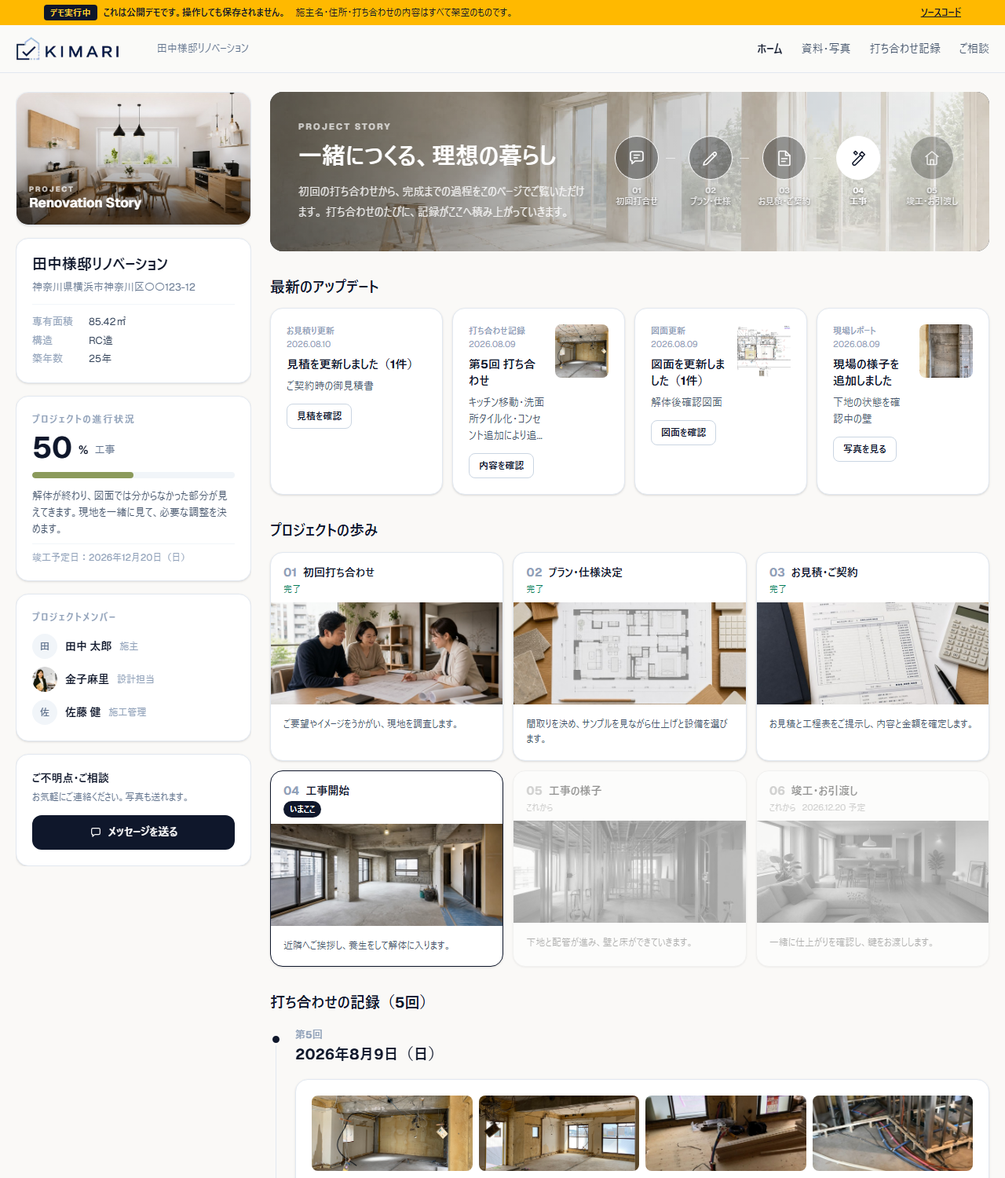
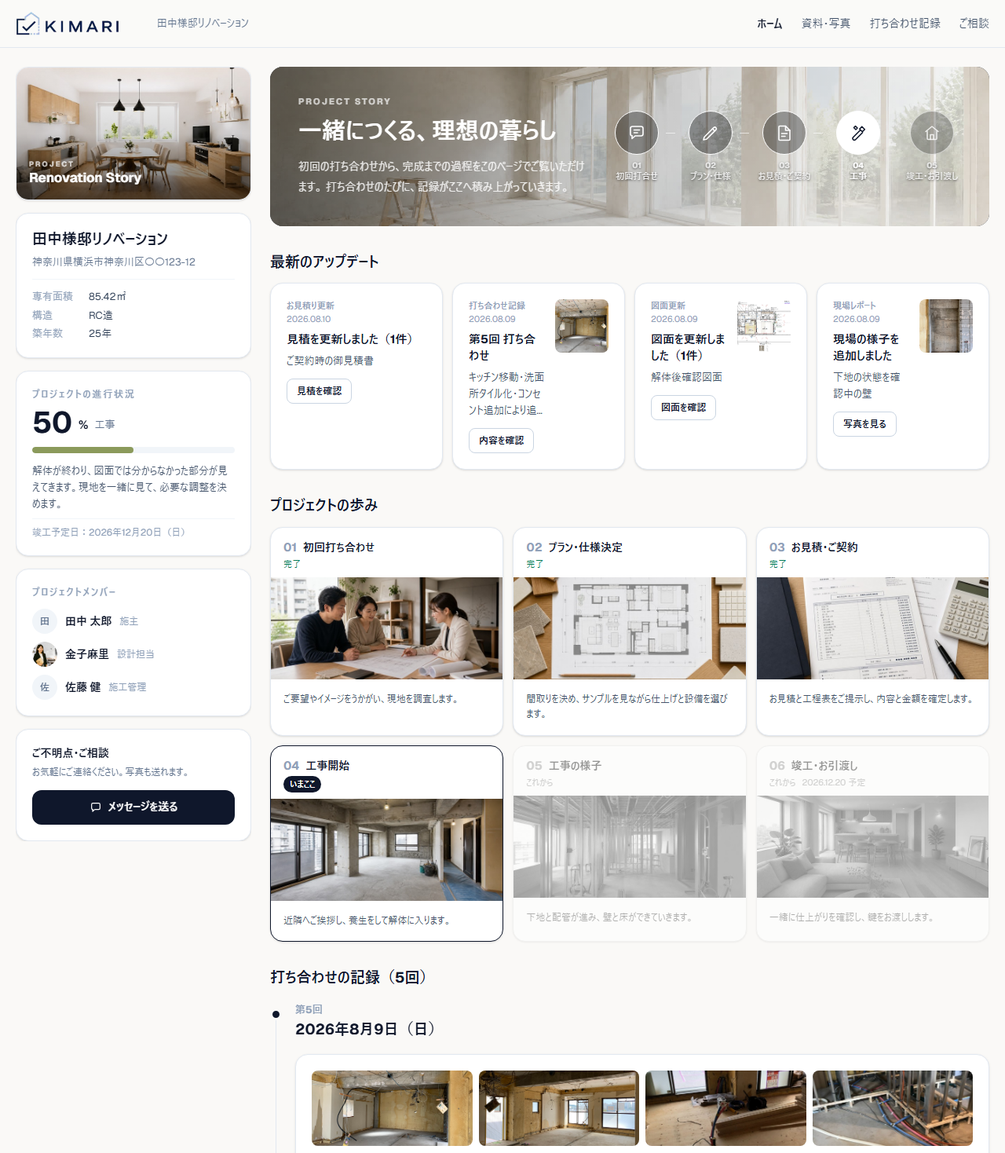
LPから帯を外し、文字を大きくした
- デモの帯をLPには出さないようにした。
  LPは製品の紹介ページで、触って動かす画面ではないため、断る対象がない
- 施主ページのスクリーンショットから帯を切り落とした。
  紹介の図に「これはデモです」が写り込むのは、見せたいものと関係がない
- 小さすぎた文字を一段上げた。
  STEP ラベル 10→12px、本文 13→15px、箇条書き 12→14px、
  できること 9/14→11/16px、ナビ・ボタン 13→14px。
  実際に読む人の環境では潰れて読めなかった

diff --git a/app/lp/page.module.css b/app/lp/page.module.css
@@ -1,12 +1,12 @@
-.page{--navy:#06265a;--blue:#1168d8;--ink:#101828;--muted:#5e6b7e;background:#fff;color:var(--ink);font-family:var(--font-geist-sans),"Yu Gothic UI",sans-serif;overflow:hidden}.header{height:76px;display:flex;align-items:center;gap:44px;padding:0 max(5vw,28px);background:rgba(255,255,255,.94);position:relative;z-index:10;border-bottom:1px solid #e9edf3}.header img{width:168px;height:auto}.nav{display:flex;gap:32px;margin-left:auto;font-size:13px;font-weight:700}.nav a:hover{color:var(--blue)}.headerCta,.primaryCta,.finalButton{display:inline-flex;align-items:center;justify-content:center;background:var(--navy);color:#fff;font-weight:800;border-radius:8px;transition:.2s}.headerCta{padding:13px 22px;font-size:13px}.hero{position:relative;min-height:690px;background:linear-gradient(112deg,#f6f9ff 0%,#eef5ff 48%,#fff 48%)}.hero:after{content:"";position:absolute;inset:0;background-image:linear-gradient(rgba(11,54,110,.035) 1px,transparent 1px),linear-gradient(90deg,rgba(11,54,110,.035) 1px,transparent 1px);background-size:48px 48px;pointer-events:none}.heroGlow{position:absolute;width:520px;height:520px;border-radius:50%;background:#b9d8ff;filter:blur(90px);opacity:.42;right:6%;top:60px}.heroInner{max-width:1220px;margin:auto;min-height:690px;display:grid;grid-template-columns:.9fr 1.1fr;align-items:center;gap:60px;padding:70px 30px;position:relative;z-index:2}.eyebrow{font-size:12px!important;letter-spacing:.18em;font-weight:900;color:var(--blue)!important}.heroCopy h1{font-size:64px;line-height:1.12;letter-spacing:-.05em;margin:20px 0 24px}.heroCopy h1 span{color:var(--blue)}.lead{font-size:20px;line-height:1.9;color:#40516a;font-weight:600}.heroActions{display:flex;align-items:center;gap:24px;margin-top:34px}.primaryCta{padding:18px 25px;box-shadow:0 12px 30px #06265a2e}.primaryCta span,.finalButton span{margin-left:32px}.textLink{font-size:13px;font-weight:800;color:var(--navy)}.trustLine{display:flex;gap:12px;flex-wrap:wrap;margin-top:28px}.trustLine span{font-size:11px;font-weight:700;color:#37516f}.trustLine span:before{content:"✓";color:var(--blue);margin-right:5px}.heroDemo{background:#f9fbff;border:1px solid #cfd9e8;border-radius:18px;box-shadow:0 28px 70px #092f681f;padding:20px;position:relative;transform:rotate(.7deg)}.demoTop{background:#fff;border:1px solid #e3e9f2;border-radius:10px;padding:13px 16px;font-size:12px;font-weight:800;color:#36465d}.demoTop small{float:right;color:#8896a8}.liveDot{display:inline-block;width:8px;height:8px;border-radius:50%;background:#ec3e4f;margin-right:8px;box-shadow:0 0 0 4px #ffe5e8}.transcript{padding:18px 12px 6px;color:#47566a;font-size:13px;line-height:1.7}.transcript p{margin:0 0 12px}.transcript b{display:inline-block;color:var(--navy);width:42px}.aiCard{background:#fff;border:2px solid #6aa9f5;border-radius:14px;padding:20px;box-shadow:0 12px 28px #236dc522}.aiLabel{font-size:10px;color:var(--blue);font-weight:900;letter-spacing:.15em}.aiCard h2{font-size:21px;margin:7px 0 18px}.quoteRow{display:flex;gap:18px;align-items:center;border-top:1px solid #e7edf4;border-bottom:1px solid #e7edf4;padding:14px 0}.quoteRow span{font-size:11px;color:#758297}.quoteRow strong{font-size:14px}.quoteMeta{display:flex;gap:22px;padding:13px 0;font-size:11px;color:#7c8898}.quoteMeta b{color:#26374e;margin-left:4px}.aiCard button{width:100%;border:0;border-radius:8px;background:var(--blue);color:#fff;padding:12px;font-weight:800}.demoBadge{position:absolute;right:-16px;bottom:-22px;background:var(--navy);color:#fff;padding:12px 18px;border-radius:7px;font-size:11px;font-weight:800;box-shadow:0 10px 20px #06265a33}.problem{text-align:center;padding:110px 24px;background:#071d3f;color:#fff}.problem>p{color:#8fb5e9;font-size:13px;font-weight:800}.problem h2{font-size:40px;line-height:1.45;margin:20px auto 60px;letter-spacing:-.03em}.problemStats{display:flex;max-width:850px;margin:auto;justify-content:center}.problemStats div{width:33%;display:flex;align-items:center;gap:16px;text-align:left;padding:0 28px;border-right:1px solid #29476e}.problemStats div:last-child{border:0}.problemStats strong{font-size:34px;color:#72aef7}.problemStats span{font-size:13px;line-height:1.7;color:#c7d4e8}.valueSection,.storySection{padding:120px 28px}.valueSection{background:#f6f8fb}.sectionHead{max-width:900px;margin:0 auto 55px;text-align:center}.sectionHead h2{font-size:42px;line-height:1.45;margin:16px 0}.sectionHead>p:last-child{color:var(--muted);line-height:1.9}.featureGrid{max-width:1120px;margin:auto;display:grid;grid-template-columns:repeat(3,1fr);gap:20px}.featureCard{background:#fff;padding:32px;border:1px solid #e2e7ef;border-radius:12px;min-height:275px;position:relative;box-shadow:0 10px 28px #102a4b0a}.featureCard>span{position:absolute;right:24px;top:22px;font-size:12px;font-weight:900;color:#9aabc1}.featureIcon{width:54px;height:54px;border-radius:14px;background:#e9f3ff;color:var(--blue);display:grid;place-items:center;font-size:22px;margin-bottom:30px}.featureCard h3{font-size:20px;margin-bottom:14px}.featureCard p{font-size:13px;line-height:1.9;color:var(--muted)}.classifyPanel{max-width:1120px;margin:30px auto 0;background:var(--navy);color:#fff;border-radius:16px;padding:48px;display:grid;grid-template-columns:1fr 1.15fr;gap:60px;align-items:center}.panelKicker{font-size:10px;letter-spacing:.16em;color:#77b4ff;font-weight:900}.classifyPanel h3{font-size:30px;line-height:1.45;margin:14px 0}.classifyPanel>div>p:last-child{color:#b9c7db;font-size:13px;line-height:1.9}.classifyList{display:grid;gap:9px}.classifyList>div{display:grid;grid-template-columns:70px 1fr auto;align-items:center;background:#fff;color:var(--ink);padding:14px;border-radius:9px;gap:12px}.classifyList span{font-size:10px;font-weight:900;text-align:center;padding:5px;border-radius:4px}.classifyList b{font-size:12px}.classifyList small{font-size:10px;color:#748297}.red{background:#ffe7e8;color:#bd2836}.blue{background:#e5f0ff;color:#1764bd}.amber{background:#fff0d8;color:#a05b00}.green{background:#e4f7ed;color:#147946}.storySection{background:#fff}.storyBrowser{max-width:1160px;margin:auto;border:1px solid #dbe2ec;border-radius:14px;overflow:hidden;box-shadow:0 30px 70px #1233591c;background:#fff}.browserBar{height:42px;background:#f1f4f8;display:flex;align-items:center;padding:0 14px;gap:7px}.browserBar i{display:block;width:8px;height:8px;border-radius:50%;background:#bbc6d5}.browserBar span{font-size:10px;background:#fff;border-radius:5px;color:#8793a3;margin-left:10px;padding:7px 20px;width:44%}.storyBrowser img{display:block;width:100%;height:auto}.timeline{max-width:1000px;margin:42px auto 0;display:flex;justify-content:space-between;position:relative}.timeline:before{content:"";height:1px;background:#cbd6e5;position:absolute;top:21px;left:5%;right:5%}.timeline div{position:relative;z-index:1;text-align:center;background:#fff;min-width:120px}.timeline b{display:grid;place-items:center;margin:0 auto 11px;width:42px;height:42px;border:1px solid var(--blue);background:#fff;color:var(--blue);border-radius:50%;font-size:11px}.timeline span{font-size:12px;font-weight:800}.timeline small{display:block;color:#8c99a9;font-size:10px;font-weight:500;margin-top:4px}.techSection{padding:110px max(6vw,30px);background:#eaf2fd;display:grid;grid-template-columns:.7fr 1.3fr;gap:80px;align-items:center}.techCopy h2{font-size:44px;line-height:1.35;margin:18px 0}.techCopy>p:last-child{color:#55667c;line-height:1.9;font-size:14px}.techGrid{display:grid;grid-template-columns:1fr 1fr;gap:14px}.techGrid article{background:#fff;border:1px solid #d7e2ef;border-radius:10px;padding:26px;min-height:180px}.techGrid span{font-size:10px;color:var(--blue);font-weight:900}.techGrid h3{font-size:17px;margin:20px 0 10px}.techGrid p{color:#65758a;font-size:12px;line-height:1.8}.finalCta{text-align:center;padding:105px 24px;background:linear-gradient(135deg,#082655,#061a38);color:#fff}.finalCta>img{object-fit:contain;filter:brightness(0) invert(1);opacity:.95}.finalCta>p:first-of-type{font-size:10px;letter-spacing:.2em;color:#8bbcf6;font-weight:900;margin-top:10px}.finalCta h2{font-size:52px;line-height:1.25;margin:18px 0}.finalLead{color:#b8c7db;line-height:1.9;font-size:14px}.finalButton{margin-top:32px;background:#fff;color:var(--navy);padding:18px 28px}.footer{padding:28px max(5vw,28px);display:flex;align-items:center;gap:30px;border-top:1px solid #e5e9ef}.footer img{width:130px;height:auto}.footer p{font-size:11px;color:#667488;margin-left:auto}.footer small{font-size:10px;color:#8c98a8}
+.page{--navy:#06265a;--blue:#1168d8;--ink:#101828;--muted:#5e6b7e;background:#fff;color:var(--ink);font-family:var(--font-geist-sans),"Yu Gothic UI",sans-serif;overflow:hidden}.header{height:76px;display:flex;align-items:center;gap:44px;padding:0 max(5vw,28px);background:rgba(255,255,255,.94);position:relative;z-index:10;border-bottom:1px solid #e9edf3}.header img{width:168px;height:auto}.nav{display:flex;gap:32px;margin-left:auto;font-size:14px;font-weight:700}.nav a:hover{color:var(--blue)}.headerCta,.primaryCta,.finalButton{display:inline-flex;align-items:center;justify-content:center;background:var(--navy);color:#fff;font-weight:800;border-radius:8px;transition:.2s}.headerCta{padding:13px 22px;font-size:14px}.hero{position:relative;min-height:690px;background:linear-gradient(112deg,#f6f9ff 0%,#eef5ff 48%,#fff 48%)}.hero:after{content:"";position:absolute;inset:0;background-image:linear-gradient(rgba(11,54,110,.035) 1px,transparent 1px),linear-gradient(90deg,rgba(11,54,110,.035) 1px,transparent 1px);background-size:48px 48px;pointer-events:none}.heroGlow{position:absolute;width:520px;height:520px;border-radius:50%;background:#b9d8ff;filter:blur(90px);opacity:.42;right:6%;top:60px}.heroInner{max-width:1220px;margin:auto;min-height:690px;display:grid;grid-template-columns:.9fr 1.1fr;align-items:center;gap:60px;padding:70px 30px;position:relative;z-index:2}.eyebrow{font-size:13px!important;letter-spacing:.18em;font-weight:900;color:var(--blue)!important}.heroCopy h1{font-size:64px;line-height:1.12;letter-spacing:-.05em;margin:20px 0 24px}.heroCopy h1 span{color:var(--blue)}.lead{font-size:20px;line-height:1.9;color:#40516a;font-weight:600}.heroActions{display:flex;align-items:center;gap:24px;margin-top:34px}.primaryCta{padding:18px 25px;box-shadow:0 12px 30px #06265a2e}.primaryCta span,.finalButton span{margin-left:32px}.textLink{font-size:14px;font-weight:800;color:var(--navy)}.trustLine{display:flex;gap:12px;flex-wrap:wrap;margin-top:28px}.trustLine span{font-size:11px;font-weight:700;color:#37516f}.trustLine span:before{content:"✓";color:var(--blue);margin-right:5px}.heroDemo{background:#f9fbff;border:1px solid #cfd9e8;border-radius:18px;box-shadow:0 28px 70px #092f681f;padding:20px;position:relative;transform:rotate(.7deg)}.demoTop{background:#fff;border:1px solid #e3e9f2;border-radius:10px;padding:13px 16px;font-size:12px;font-weight:800;color:#36465d}.demoTop small{float:right;color:#8896a8}.liveDot{display:inline-block;width:8px;height:8px;border-radius:50%;background:#ec3e4f;margin-right:8px;box-shadow:0 0 0 4px #ffe5e8}.transcript{padding:18px 12px 6px;color:#47566a;font-size:13px;line-height:1.7}.transcript p{margin:0 0 12px}.transcript b{display:inline-block;color:var(--navy);width:42px}.aiCard{background:#fff;border:2px solid #6aa9f5;border-radius:14px;padding:20px;box-shadow:0 12px 28px #236dc522}.aiLabel{font-size:12px;color:var(--blue);font-weight:900;letter-spacing:.15em}.aiCard h2{font-size:21px;margin:7px 0 18px}.quoteRow{display:flex;gap:18px;align-items:center;border-top:1px solid #e7edf4;border-bottom:1px solid #e7edf4;padding:14px 0}.quoteRow span{font-size:11px;color:#758297}.quoteRow strong{font-size:14px}.quoteMeta{display:flex;gap:22px;padding:13px 0;font-size:13px;color:#7c8898}.quoteMeta b{color:#26374e;margin-left:4px}.aiCard button{width:100%;border:0;border-radius:8px;background:var(--blue);color:#fff;padding:12px;font-weight:800}.demoBadge{position:absolute;right:-16px;bottom:-22px;background:var(--navy);color:#fff;padding:12px 18px;border-radius:7px;font-size:12px;font-weight:800;box-shadow:0 10px 20px #06265a33}.problem{text-align:center;padding:110px 24px;background:#071d3f;color:#fff}.problem>p{color:#8fb5e9;font-size:13px;font-weight:800}.problem h2{font-size:40px;line-height:1.45;margin:20px auto 60px;letter-spacing:-.03em}.problemStats{display:flex;max-width:850px;margin:auto;justify-content:center}.problemStats div{width:33%;display:flex;align-items:center;gap:16px;text-align:left;padding:0 28px;border-right:1px solid #29476e}.problemStats div:last-child{border:0}.problemStats strong{font-size:34px;color:#72aef7}.problemStats span{font-size:13px;line-height:1.7;color:#c7d4e8}.valueSection,.storySection{padding:120px 28px}.valueSection{background:#f6f8fb}.sectionHead{max-width:900px;margin:0 auto 55px;text-align:center}.sectionHead h2{font-size:42px;line-height:1.45;margin:16px 0}.sectionHead>p:last-child{color:var(--muted);line-height:1.9}.featureGrid{max-width:1120px;margin:auto;display:grid;grid-template-columns:repeat(3,1fr);gap:20px}.featureCard{background:#fff;padding:32px;border:1px solid #e2e7ef;border-radius:12px;min-height:275px;position:relative;box-shadow:0 10px 28px #102a4b0a}.featureCard>span{position:absolute;right:24px;top:22px;font-size:12px;font-weight:900;color:#9aabc1}.featureIcon{width:54px;height:54px;border-radius:14px;background:#e9f3ff;color:var(--blue);display:grid;place-items:center;font-size:22px;margin-bottom:30px}.featureCard h3{font-size:20px;margin-bottom:14px}.featureCard p{font-size:13px;line-height:1.9;color:var(--muted)}.classifyPanel{max-width:1120px;margin:30px auto 0;background:var(--navy);color:#fff;border-radius:16px;padding:48px;display:grid;grid-template-columns:1fr 1.15fr;gap:60px;align-items:center}.panelKicker{font-size:12px;letter-spacing:.16em;color:#77b4ff;font-weight:900}.classifyPanel h3{font-size:30px;line-height:1.45;margin:14px 0}.classifyPanel>div>p:last-child{color:#b9c7db;font-size:13px;line-height:1.9}.classifyList{display:grid;gap:9px}.classifyList>div{display:grid;grid-template-columns:70px 1fr auto;align-items:center;background:#fff;color:var(--ink);padding:14px;border-radius:9px;gap:12px}.classifyList span{font-size:10px;font-weight:900;text-align:center;padding:5px;border-radius:4px}.classifyList b{font-size:12px}.classifyList small{font-size:10px;color:#748297}.red{background:#ffe7e8;color:#bd2836}.blue{background:#e5f0ff;color:#1764bd}.amber{background:#fff0d8;color:#a05b00}.green{background:#e4f7ed;color:#147946}.storySection{background:#fff}.storyBrowser{max-width:1160px;margin:auto;border:1px solid #dbe2ec;border-radius:14px;overflow:hidden;box-shadow:0 30px 70px #1233591c;background:#fff}.browserBar{height:42px;background:#f1f4f8;display:flex;align-items:center;padding:0 14px;gap:7px}.browserBar i{display:block;width:8px;height:8px;border-radius:50%;background:#bbc6d5}.browserBar span{font-size:10px;background:#fff;border-radius:5px;color:#8793a3;margin-left:10px;padding:7px 20px;width:44%}.storyBrowser img{display:block;width:100%;height:auto}.timeline{max-width:1000px;margin:42px auto 0;display:flex;justify-content:space-between;position:relative}.timeline:before{content:"";height:1px;background:#cbd6e5;position:absolute;top:21px;left:5%;right:5%}.timeline div{position:relative;z-index:1;text-align:center;background:#fff;min-width:120px}.timeline b{display:grid;place-items:center;margin:0 auto 11px;width:42px;height:42px;border:1px solid var(--blue);background:#fff;color:var(--blue);border-radius:50%;font-size:11px}.timeline span{font-size:12px;font-weight:800}.timeline small{display:block;color:#8c99a9;font-size:10px;font-weight:500;margin-top:4px}.techSection{padding:110px max(6vw,30px);background:#eaf2fd;display:grid;grid-template-columns:.7fr 1.3fr;gap:80px;align-items:center}.techCopy h2{font-size:44px;line-height:1.35;margin:18px 0}.techCopy>p:last-child{color:#55667c;line-height:1.9;font-size:14px}.techGrid{display:grid;grid-template-columns:1fr 1fr;gap:14px}.techGrid article{background:#fff;border:1px solid #d7e2ef;border-radius:10px;padding:26px;min-height:180px}.techGrid span{font-size:10px;color:var(--blue);font-weight:900}.techGrid h3{font-size:17px;margin:20px 0 10px}.techGrid p{color:#65758a;font-size:12px;line-height:1.8}.finalCta{text-align:center;padding:105px 24px;background:linear-gradient(135deg,#082655,#061a38);color:#fff}.finalCta>img{object-fit:contain;filter:brightness(0) invert(1);opacity:.95}.finalCta>p:first-of-type{font-size:10px;letter-spacing:.2em;color:#8bbcf6;font-weight:900;margin-top:10px}.finalCta h2{font-size:52px;line-height:1.25;margin:18px 0}.finalLead{color:#b8c7db;line-height:1.9;font-size:14px}.finalButton{margin-top:32px;background:#fff;color:var(--navy);padding:18px 28px}.footer{padding:28px max(5vw,28px);display:flex;align-items:center;gap:30px;border-top:1px solid #e5e9ef}.footer img{width:130px;height:auto}.footer p{font-size:11px;color:#667488;margin-left:auto}.footer small{font-size:10px;color:#8c98a8}
 @media(max-width:900px){.nav{display:none}.header{height:64px}.header img{width:140px}.headerCta{margin-left:auto;padding:11px 14px}.hero{background:linear-gradient(160deg,#f4f8ff 0%,#fff 70%)}.heroInner{grid-template-columns:1fr;padding-top:55px;gap:42px}.heroCopy{text-align:center}.heroCopy h1{font-size:50px}.heroActions,.trustLine{justify-content:center}.problem h2,.sectionHead h2{font-size:34px}.featureGrid{grid-template-columns:1fr}.classifyPanel,.techSection{grid-template-columns:1fr}.timeline{overflow-x:auto;gap:25px;justify-content:flex-start;padding-bottom:12px}.timeline:before{display:none}.techSection{gap:35px}.techCopy{text-align:center}}
-@media(max-width:560px){.header{padding:0 16px}.header img{width:122px}.headerCta{font-size:11px}.heroInner{padding:44px 18px 70px}.heroCopy h1{font-size:42px}.lead{font-size:16px}.heroActions{flex-direction:column}.primaryCta{width:100%}.trustLine span{font-size:9px}.heroDemo{padding:12px}.transcript{font-size:11px}.quoteRow{align-items:flex-start;flex-direction:column;gap:4px}.quoteMeta{gap:9px}.demoBadge{right:4px}.problem{padding:80px 20px}.problem h2{font-size:28px}.problemStats{display:grid;gap:22px}.problemStats div{width:100%;border-right:0;border-bottom:1px solid #29476e;padding:0 0 22px;justify-content:center}.valueSection,.storySection{padding:85px 18px}.sectionHead h2,.techCopy h2{font-size:30px}.featureCard{min-height:0}.classifyPanel{padding:28px 18px;gap:30px}.classifyPanel h3{font-size:24px}.classifyList>div{grid-template-columns:62px 1fr}.classifyList small{grid-column:2}.storyBrowser{width:760px;transform-origin:top left;transform:scale(.67);margin-bottom:-220px}.techSection{padding:80px 18px}.techGrid{grid-template-columns:1fr}.techGrid article{min-height:0}.finalCta h2{font-size:40px}.footer{flex-wrap:wrap;justify-content:center}.footer p{margin-left:0}.footer small{width:100%;text-align:center}}
+@media(max-width:560px){.header{padding:0 16px}.header img{width:122px}.headerCta{font-size:14px}.heroInner{padding:44px 18px 70px}.heroCopy h1{font-size:42px}.lead{font-size:16px}.heroActions{flex-direction:column}.primaryCta{width:100%}.trustLine span{font-size:9px}.heroDemo{padding:12px}.transcript{font-size:11px}.quoteRow{align-items:flex-start;flex-direction:column;gap:4px}.quoteMeta{gap:9px}.demoBadge{right:4px}.problem{padding:80px 20px}.problem h2{font-size:28px}.problemStats{display:grid;gap:22px}.problemStats div{width:100%;border-right:0;border-bottom:1px solid #29476e;padding:0 0 22px;justify-content:center}.valueSection,.storySection{padding:85px 18px}.sectionHead h2,.techCopy h2{font-size:30px}.featureCard{min-height:0}.classifyPanel{padding:28px 18px;gap:30px}.classifyPanel h3{font-size:24px}.classifyList>div{grid-template-columns:62px 1fr}.classifyList small{grid-column:2}.storyBrowser{width:760px;transform-origin:top left;transform:scale(.67);margin-bottom:-220px}.techSection{padding:80px 18px}.techGrid{grid-template-columns:1fr}.techGrid article{min-height:0}.finalCta h2{font-size:40px}.footer{flex-wrap:wrap;justify-content:center}.footer p{margin-left:0}.footer small{width:100%;text-align:center}}
 
 /* Continuous product-story strip */
 .motionStrip{background:#fff;padding:24px 0 34px;overflow:hidden;border-top:1px solid #e7edf5}.motionTrack{display:flex;width:max-content;animation:kimariMarquee 42s linear infinite}.motionGroup{display:flex;gap:18px;padding-right:18px}.motionGroup article{flex:0 0 auto;width:300px;height:190px;border:1px solid #dce4ef;border-radius:14px;background:#fff;box-shadow:0 12px 30px #102a4b12;overflow:hidden;position:relative}.motionPhoto img,.motionStory img{width:100%;height:120px;object-fit:cover}.motionStory img{object-position:top}.motionPhoto span,.motionStory span{display:block;color:var(--blue);font-size:9px;font-weight:900;letter-spacing:.12em;padding:12px 16px 2px}.motionPhoto b,.motionStory b{display:block;font-size:13px;padding:0 16px}.motionCard{padding:22px}.motionCard small{display:block;color:#8594a8;font-size:9px;font-weight:900;letter-spacing:.14em;margin-bottom:20px}.motionCard>span{display:inline-block;font-size:10px;font-weight:900;padding:6px 10px;border-radius:5px;margin-bottom:14px}.motionCard>b{display:block;font-size:14px;margin-bottom:10px}.motionCard>p{font-size:11px;color:#718097}@keyframes kimariMarquee{to{transform:translateX(-50%)}}
 
 /* Expanded vertical feature story */
-.featureSteps{max-width:1120px;margin:auto;display:grid;gap:26px}.featureStep{display:grid;grid-template-columns:1fr 1fr;min-height:430px;background:#fff;border:1px solid #dfe6ef;border-radius:18px;overflow:hidden;box-shadow:0 16px 42px #102a4b0d}.featureStep:nth-child(even) .stepVisual{order:2}.stepVisual{position:relative;display:flex;align-items:center;justify-content:center;min-height:430px;padding:55px;background:linear-gradient(145deg,#e8f2ff,#f7faff)}.stepNumber{position:absolute;left:26px;top:22px;font-size:66px;font-weight:900;color:#d0e2f8;letter-spacing:-.08em}.stepCopy{padding:62px 58px;display:flex;flex-direction:column;justify-content:center}.stepKicker{font-size:10px!important;color:var(--blue)!important;font-weight:900!important;letter-spacing:.16em}.stepCopy h3{font-size:32px;margin:13px 0 18px;letter-spacing:-.03em}.stepCopy>p{font-size:13px;line-height:1.95;color:#5d6c80}.stepCopy ul{display:grid;grid-template-columns:1fr;gap:8px;margin:22px 0 0;padding:0;list-style:none}.stepCopy li{font-size:12px;font-weight:700;color:#33465f}.stepCopy li:before{content:"✓";display:inline-grid;place-items:center;width:19px;height:19px;margin-right:9px;border-radius:50%;background:#e4f1ff;color:var(--blue);font-size:10px}.stepResult{border-top:1px solid #e4e9f0;margin-top:25px;padding-top:19px}.stepResult small{display:block;color:#8a97a8;font-size:9px;font-weight:900;letter-spacing:.12em;margin-bottom:5px}.stepResult b{font-size:14px;color:var(--navy)}.wave{height:96px;display:flex;align-items:center;gap:9px}.wave i{width:8px;border-radius:8px;background:var(--blue);animation:wave 1.2s ease-in-out infinite}.wave i:nth-child(1),.wave i:nth-child(7){height:30px}.wave i:nth-child(2),.wave i:nth-child(6){height:55px;animation-delay:.12s}.wave i:nth-child(3),.wave i:nth-child(5){height:78px;animation-delay:.24s}.wave i:nth-child(4){height:96px;animation-delay:.36s}@keyframes wave{50%{transform:scaleY(.55);opacity:.65}}.recordPill{position:absolute;bottom:62px;background:#fff;border-radius:30px;padding:12px 18px;font-size:11px;font-weight:800;box-shadow:0 10px 25px #164d9520}.recordPill b{margin-left:24px;color:#738197}.decisionStack{width:100%;display:grid;gap:12px}.decisionStack>span{display:grid;grid-template-columns:62px 1fr;align-items:center;background:#fff;padding:17px;border-radius:10px;box-shadow:0 9px 22px #133f7512;font-size:10px;font-weight:900;color:#587087}.decisionStack>span>i{display:none}.decisionStack b{color:#17283f;font-size:12px}.miniEstimate{width:100%;background:#fff;border:2px solid #79aff1;border-radius:14px;padding:26px;box-shadow:0 15px 35px #1d65bb20}.miniEstimate small{color:var(--blue);font-weight:900;font-size:10px}.miniEstimate h4{font-size:17px;margin:12px 0 20px}.miniEstimate p{font-size:11px;color:#68788c;border-top:1px solid #e5eaf1;padding:10px 0;margin:0}.miniEstimate button{border:0;width:100%;padding:12px;background:var(--blue);color:#fff;border-radius:7px;font-weight:800;margin-top:8px}
+.featureSteps{max-width:1120px;margin:auto;display:grid;gap:26px}.featureStep{display:grid;grid-template-columns:1fr 1fr;min-height:430px;background:#fff;border:1px solid #dfe6ef;border-radius:18px;overflow:hidden;box-shadow:0 16px 42px #102a4b0d}.featureStep:nth-child(even) .stepVisual{order:2}.stepVisual{position:relative;display:flex;align-items:center;justify-content:center;min-height:430px;padding:55px;background:linear-gradient(145deg,#e8f2ff,#f7faff)}.stepNumber{position:absolute;left:26px;top:22px;font-size:66px;font-weight:900;color:#d0e2f8;letter-spacing:-.08em}.stepCopy{padding:62px 58px;display:flex;flex-direction:column;justify-content:center}.stepKicker{font-size:12px!important;color:var(--blue)!important;font-weight:900!important;letter-spacing:.16em}.stepCopy h3{font-size:32px;margin:13px 0 18px;letter-spacing:-.03em}.stepCopy>p{font-size:15px;line-height:1.95;color:#5d6c80}.stepCopy ul{display:grid;grid-template-columns:1fr;gap:8px;margin:22px 0 0;padding:0;list-style:none}.stepCopy li{font-size:14px;font-weight:700;color:#33465f}.stepCopy li:before{content:"✓";display:inline-grid;place-items:center;width:19px;height:19px;margin-right:9px;border-radius:50%;background:#e4f1ff;color:var(--blue);font-size:10px}.stepResult{border-top:1px solid #e4e9f0;margin-top:25px;padding-top:19px}.stepResult small{display:block;color:#8a97a8;font-size:11px;font-weight:900;letter-spacing:.12em;margin-bottom:5px}.stepResult b{font-size:16px;color:var(--navy)}.wave{height:96px;display:flex;align-items:center;gap:9px}.wave i{width:8px;border-radius:8px;background:var(--blue);animation:wave 1.2s ease-in-out infinite}.wave i:nth-child(1),.wave i:nth-child(7){height:30px}.wave i:nth-child(2),.wave i:nth-child(6){height:55px;animation-delay:.12s}.wave i:nth-child(3),.wave i:nth-child(5){height:78px;animation-delay:.24s}.wave i:nth-child(4){height:96px;animation-delay:.36s}@keyframes wave{50%{transform:scaleY(.55);opacity:.65}}.recordPill{position:absolute;bottom:62px;background:#fff;border-radius:30px;padding:12px 18px;font-size:13px;font-weight:800;box-shadow:0 10px 25px #164d9520}.recordPill b{margin-left:24px;color:#738197}.decisionStack{width:100%;display:grid;gap:12px}.decisionStack>span{display:grid;grid-template-columns:62px 1fr;align-items:center;background:#fff;padding:17px;border-radius:10px;box-shadow:0 9px 22px #133f7512;font-size:10px;font-weight:900;color:#587087}.decisionStack>span>i{display:none}.decisionStack b{color:#17283f;font-size:12px}.miniEstimate{width:100%;background:#fff;border:2px solid #79aff1;border-radius:14px;padding:26px;box-shadow:0 15px 35px #1d65bb20}.miniEstimate small{color:var(--blue);font-weight:900;font-size:10px}.miniEstimate h4{font-size:17px;margin:12px 0 20px}.miniEstimate p{font-size:11px;color:#68788c;border-top:1px solid #e5eaf1;padding:10px 0;margin:0}.miniEstimate button{border:0;width:100%;padding:12px;background:var(--blue);color:#fff;border-radius:7px;font-weight:800;margin-top:8px}
 
 /* Homeowner value */
 .ownerSection{max-width:1120px;margin:90px auto 0;border-radius:18px;background:#071f46;color:#fff;padding:58px;display:grid;grid-template-columns:.8fr 1.2fr;gap:70px;align-items:center}.ownerIntro h3{font-size:32px;line-height:1.5;margin:15px 0 20px}.ownerIntro>p:last-child{color:#b8c9df;font-size:13px;line-height:1.95}.ownerBenefits{display:grid;gap:12px}.ownerBenefits article{display:flex;gap:18px;background:#fff;color:var(--ink);border-radius:11px;padding:20px}.ownerBenefits article>span{display:grid;place-items:center;flex:0 0 38px;height:38px;border-radius:50%;background:#e5f1ff;color:var(--blue);font-size:10px;font-weight:900}.ownerBenefits h4{font-size:15px;margin:1px 0 7px}.ownerBenefits p{font-size:11px;line-height:1.7;color:#68778b}
@@ -25,7 +25,7 @@
 /* デモ動画 */
 .videoSection{max-width:900px;margin:96px auto 0;padding:0 22px;text-align:center}
 .videoSection h2{font-size:32px;letter-spacing:-.03em;margin:10px 0 12px}
-.videoSection>p{font-size:13px;line-height:1.95;color:#5d6c80;margin:0 0 26px}
+.videoSection>p{font-size:15px;line-height:1.95;color:#5d6c80;margin:0 0 26px}
 .videoFrame{position:relative;width:100%;aspect-ratio:16/9;border-radius:16px;overflow:hidden;box-shadow:0 18px 46px #102a4b1f;background:#000}
 .videoFrame iframe{position:absolute;inset:0;width:100%;height:100%;border:0}
 @media(max-width:560px){.videoSection{margin-top:64px}.videoSection h2{font-size:24px}}

diff --git a/components/DemoBanner.tsx b/components/DemoBanner.tsx
@@ -1,3 +1,7 @@
+'use client';
+
+import { usePathname } from 'next/navigation';
+
 /**
  * 公開デモであることを、全ページの一番上に出す。
  *
@@ -6,14 +10,20 @@
  * 何を押しても保存されない。**それが分からないまま触られるのが一番まずい。**
  *
  * 隠せるようにはしない。読んで消せる注意書きは、消えたあとに効かなくなる。
- *
- * スクロールしても残す。上に戻らないと確認できない注意書きは、
+ * スクロールしても残す。上に戻らないと読めない注意書きは、
  * 途中から見た人には無いのと同じになる。
+ *
+ * ただし **LP には出さない**。LPは製品の紹介ページで、
+ * 触って動かす画面ではないため、断る対象がない。
+ *
  * 高さは 32px で固定し、その分だけ画面側のヘッダーを下げる
  * （app/layout.tsx の --app-top と components/AppShell.tsx）。
  * 折り返して高さが変わると、下のヘッダーとの位置がずれる。
  */
 export default function DemoBanner() {
+  const pathname = usePathname();
+  if (pathname?.startsWith('/lp')) return null;
+
   return (
     <div className="sticky top-0 z-40 h-8 w-full overflow-hidden bg-amber-400 text-slate-900">
       <div className="mx-auto flex h-8 max-w-[1200px] items-center gap-2 px-4">

diff --git a/app/lp/page.tsx b/app/lp/page.tsx
@@ -174,7 +174,7 @@ export default function LandingPage() {
         </div>
         <div className={styles.storyBrowser}>
           <div className={styles.browserBar}><i /><i /><i /><span>kimari.app/story/my-renovation</span></div>
-          <Image src="/shots/owner-lp.png" alt="KIMARIの施主向けページ（実際の画面）" width={1440} height={940} />
+          <Image src="/shots/owner-lp.png" alt="KIMARIの施主向けページ（実際の画面）" width={1440} height={908} />
         </div>
         <div className={styles.timeline}>
           {timeline.map(([no, title, sub]) => <div key={no}><b>{no}</b><span>{title}<small>{sub}</small></span></div>)}
